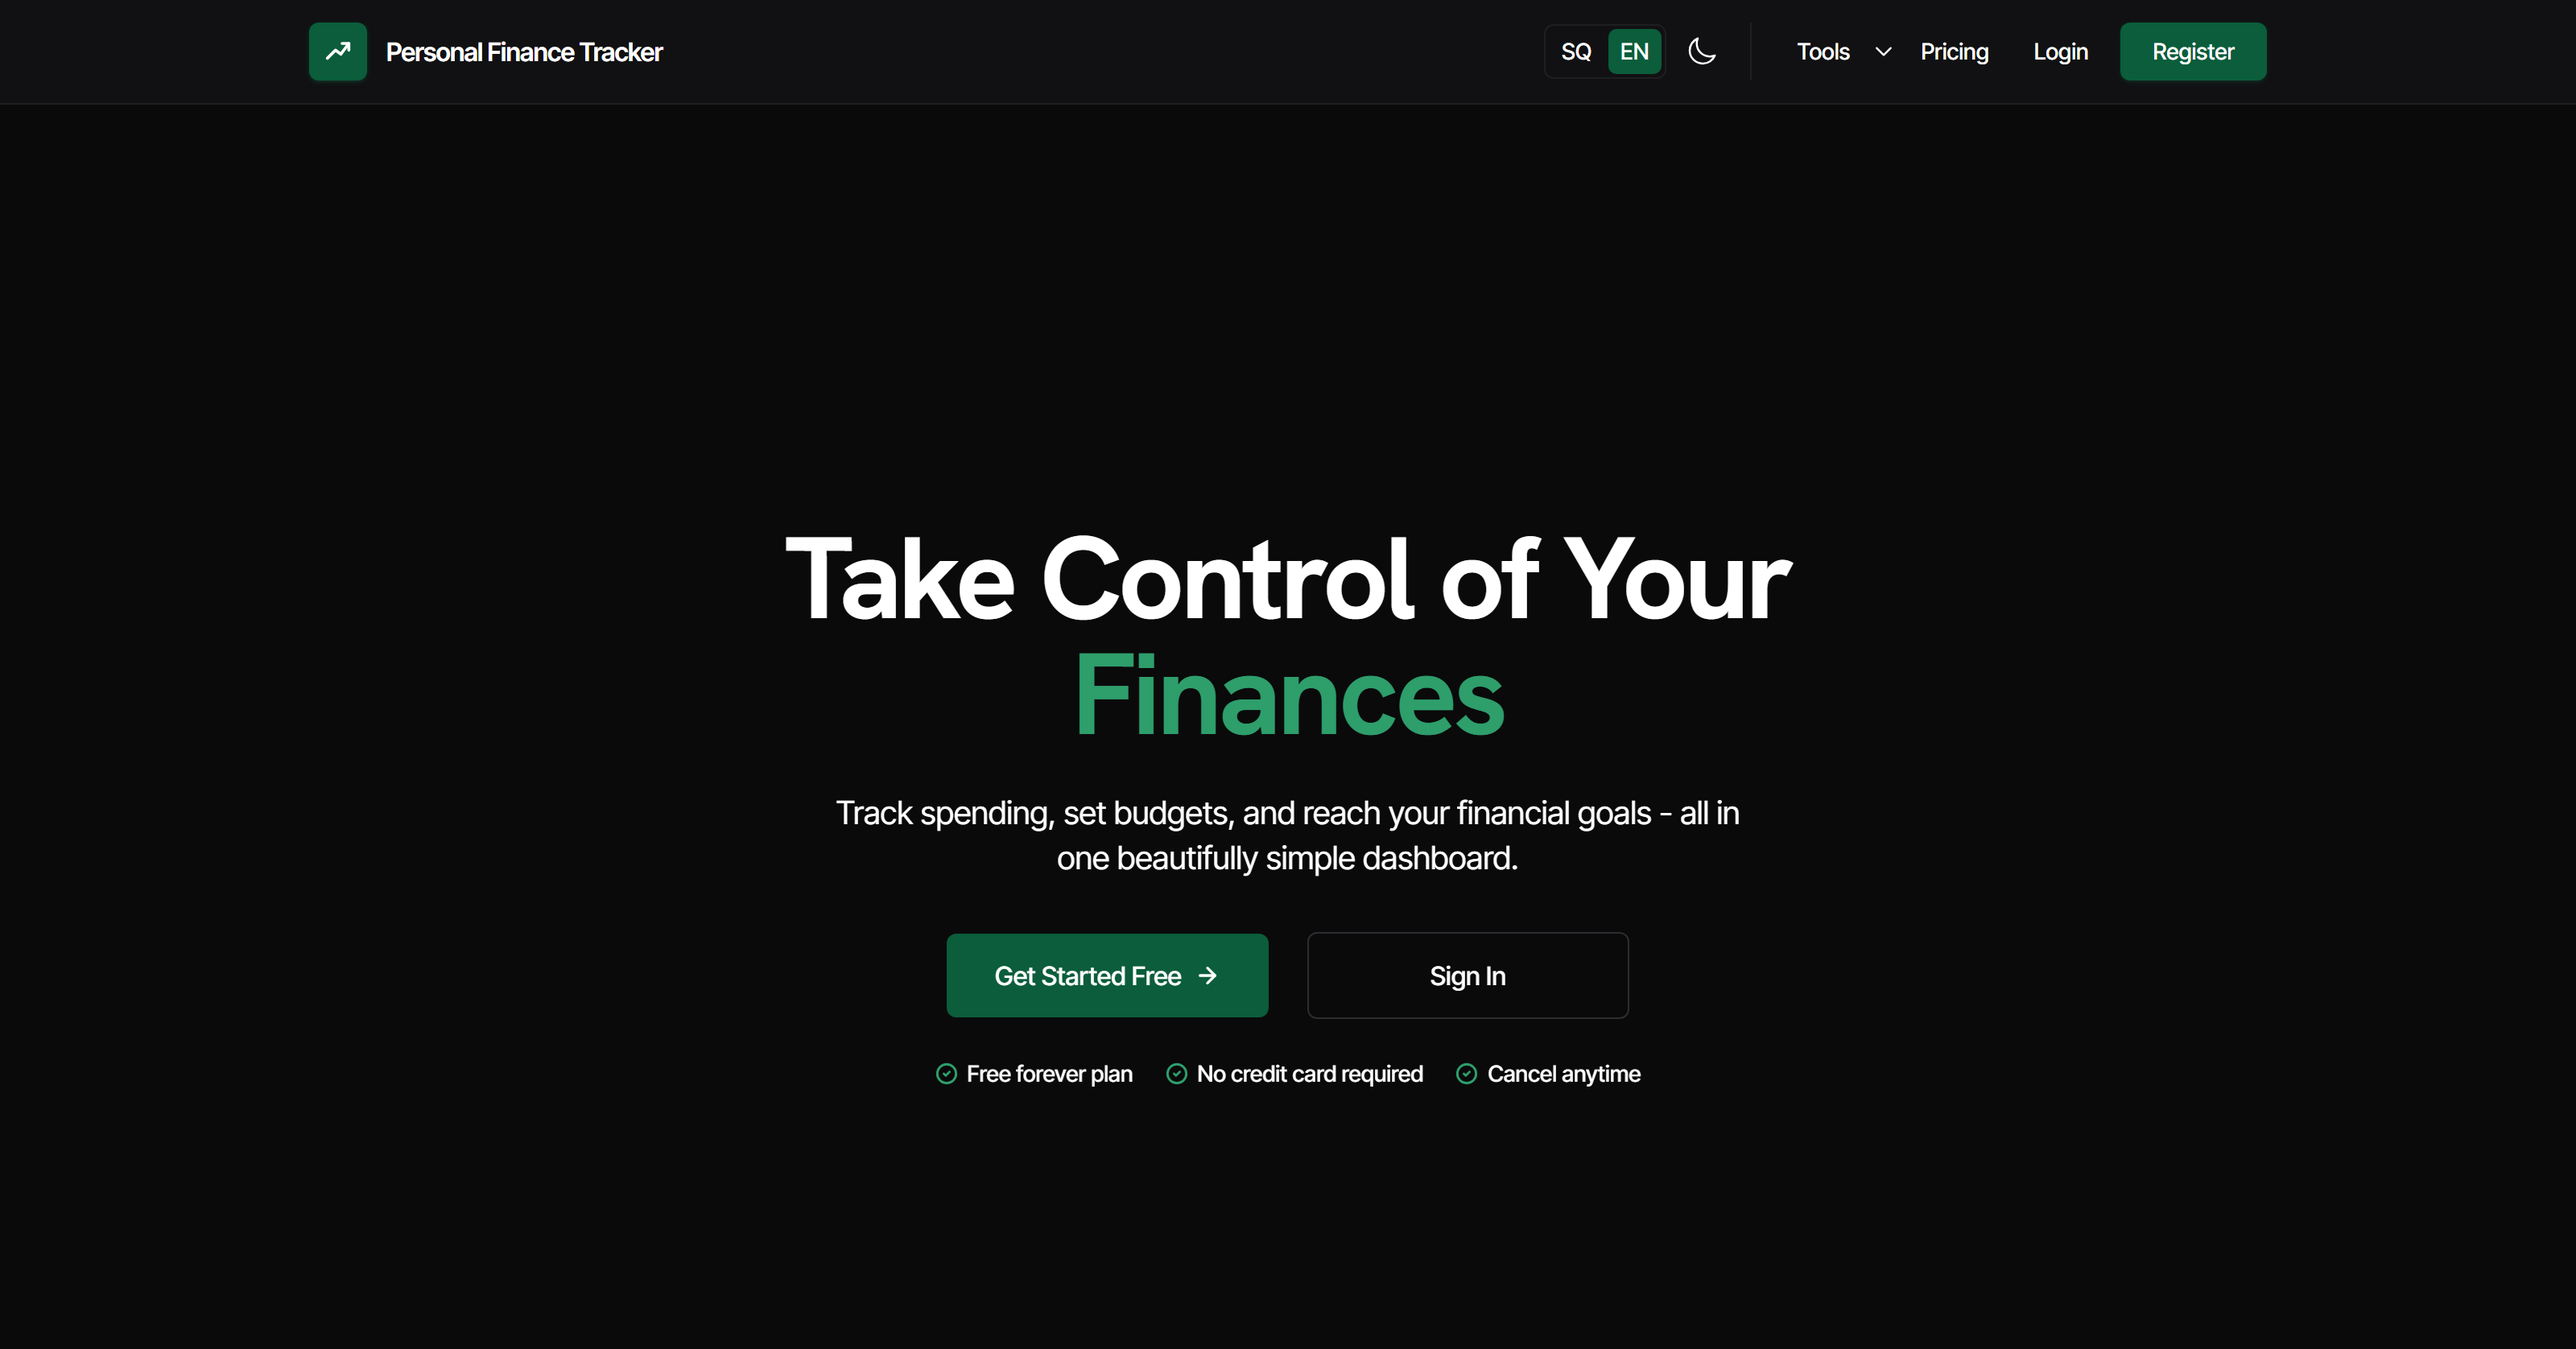
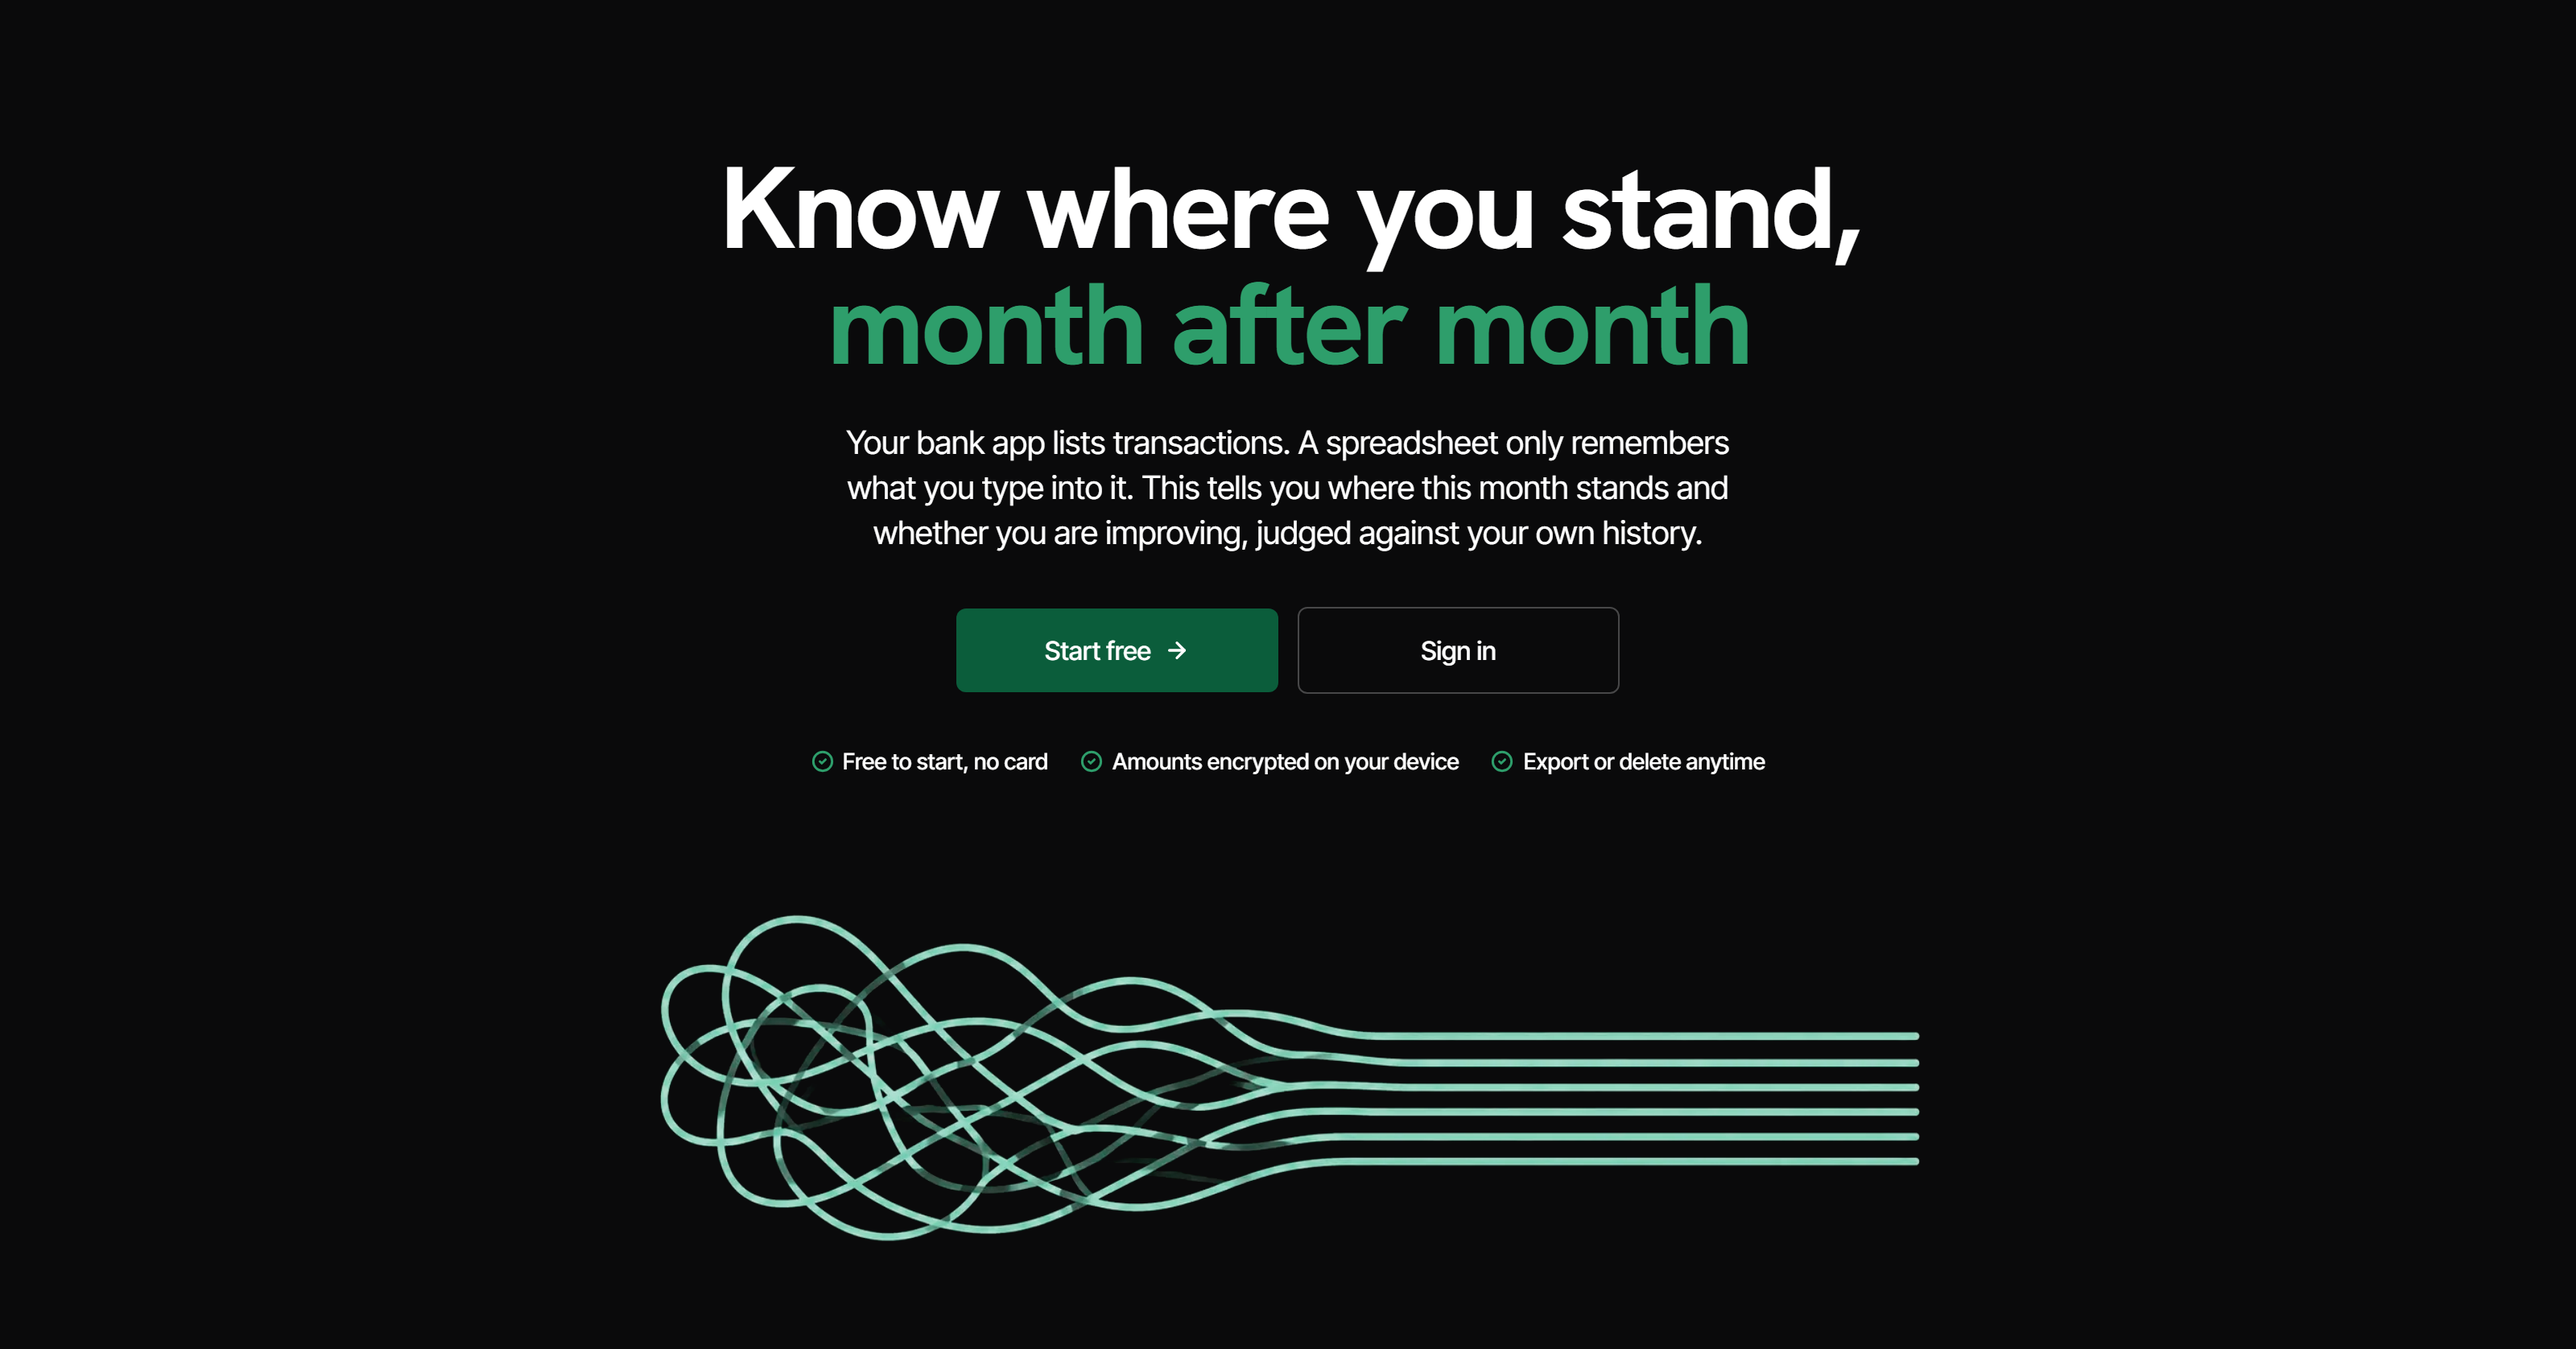
feat: add script to capture and regenerate social cards; include new hero visual asset

diff --git a/src/components/LandingPage.jsx b/src/components/LandingPage.jsx
@@ -188,6 +188,55 @@ function MiniBenchmarks() {
   );
 }
 
+// ── Hero visual ──────────────────────────────────────────────────────────────
+// The metaphor the whole page rests on: tangled threads (a spreadsheet, a bank
+// feed) resolving into ordered parallel lines. Decorative, so alt="" keeps it
+// out of the accessibility tree — the H1 beside it already carries the meaning.
+//
+// The source art is a wide 16:9 with the composition weighted left and generous
+// empty margins, so it is cropped to a shorter band and anchored left rather
+// than letterboxed with dead space.
+function HeroVisual() {
+  // A missing/failed art file renders nothing rather than a broken-image icon:
+  // the hero still reads perfectly without it.
+  const [failed, setFailed] = useState(false);
+  if (failed) return null;
+
+  return (
+    /* The wrapper paints the page colour explicitly: mix-blend-screen
+       composites against the nearest painted backdrop, and without one the
+       image's black field stayed visible as a faint rectangle. */
+    <div
+      className="animate-hero-in mt-12 sm:mt-16 max-w-5xl mx-auto bg-surface-page dark:bg-surface-dark-page"
+      style={{ animationDelay: '440ms' }}
+      aria-hidden="true"
+    >
+      {/* The art is dark green strokes on a baked-in light #FAFAF7 field.
+          In light mode that field matches the page exactly, so the image drops
+          in as-is. In dark mode it would be a bright slab, so the whole image is
+          inverted (light field -> near-black, matching the page) and the hue is
+          rotated back so the strokes stay green rather than becoming magenta.
+          One asset, no second file to keep in sync. */}
+      <img
+        src="/ads/threads-order-from-chaos.webp"
+        alt=""
+        width={1672}
+        height={941}
+        // Above the fold, so it must not be lazy: it competes with the H1 for
+        // LCP and a late load would shift the sections below.
+        loading="eager"
+        fetchPriority="high"
+        decoding="async"
+        onError={() => setFailed(true)}
+        // `screen` on the inverted image drops its near-black field into the
+        // page (black is the identity for screen), removing the faint rectangle
+        // that invert alone leaves behind against #0A0A0B.
+        className="w-full h-[150px] sm:h-[210px] lg:h-[250px] object-cover object-left dark:invert dark:hue-rotate-180 dark:brightness-110 dark:mix-blend-screen"
+      />
+    </div>
+  );
+}
+
 // ── Feature card shell (hero features) ───────────────────────────────────────
 function FeatureCard({ eyebrow, title, desc, preview, className = '', flip = false }) {
   const [ref, visible] = useReveal(0.1);
@@ -351,7 +400,7 @@ export default function LandingPage() {
               {t('landing.hero.subtitle')}
             </p>
 
-            <div className="animate-hero-in flex flex-col sm:flex-row sm:items-center justify-center gap-4 sm:gap-6 mb-6" style={{ animationDelay: '240ms' }}>
+            <div className="animate-hero-in flex flex-col sm:flex-row sm:items-center justify-center gap-3 mb-8" style={{ animationDelay: '240ms' }}>
               <Link
                 to={localizedPath('/register', i18n.language)}
                 className="group w-full sm:w-auto sm:min-w-[200px] inline-flex items-center justify-center gap-2 px-7 py-3.5 bg-brand-600 hover:bg-brand-700 text-white font-medium rounded-md transition-colors text-base"
@@ -359,11 +408,12 @@ export default function LandingPage() {
                 {t('landing.hero.getStarted')}
                 <ArrowRight className="w-4 h-4 transition-transform group-hover:translate-x-1" strokeWidth={2.5} />
               </Link>
-              {/* Sign-in is a text link, not a second button: registering is
-                  the one primary action, so nothing else competes with it. */}
+              {/* Sign-in matches the primary button's geometry so the pair sits
+                  on one optical line, but stays outlined: only the fill marks
+                  the primary action. */}
               <Link
                 to={localizedPath('/login', i18n.language)}
-                className="text-base font-medium text-ink-muted dark:text-white/80 hover:text-ink-primary dark:hover:text-white underline underline-offset-4 decoration-ink-muted/30 dark:decoration-white/30 transition-colors"
+                className="w-full sm:w-auto sm:min-w-[200px] inline-flex items-center justify-center px-7 py-3.5 text-base font-medium rounded-md border border-surface-outline dark:border-white/25 text-ink-primary dark:text-white hover:bg-surface-subtle dark:hover:bg-white/5 hover:border-ink-muted/50 dark:hover:border-white/40 transition-colors"
               >
                 {t('landing.hero.signIn')}
               </Link>
@@ -378,6 +428,9 @@ export default function LandingPage() {
               ))}
             </div>
           </div>
+
+          {/* Visual restatement of the promise: chaos resolving into order. */}
+          <HeroVisual />
         </div>
       </section>
 

diff --git a/sq.html b/sq.html
@@ -146,7 +146,7 @@
          rendered hero exactly: same H1, same subtitle, same primary action. -->
     <noscript>
       <h1>Dini ku jeni, muaj pas muaji</h1>
-      <p>Aplikacioni i bankës ju rendit transaksionet. Tabela mban mend vetëm atë që shkruani vetë në të. Ky ju tregon ku qëndron ky muaj dhe nëse po përmirësoheni, krahasuar me historikun tuaj.</p>
+      <p>Aplikacioni i bankës ju rendit transaksionet. Tabela mban mend vetëm atë që shkruani vetë në të. Ky aplikacion ju tregon ku qëndron ky muaj dhe nëse po përmirësoheni, krahasuar me historikun tuaj.</p>
       <ul>
         <li>Transaksionet e përsëritura regjistrohen automatikisht, çdo ditë, javë, muaj ose vit, me mundësi pezullimi dhe rifillimi</li>
         <li>Qëllime kursimi që i ushqeni me kontribute dhe u ndiqni ecurinë</li>

diff --git a/src/components/Dashboard/SummaryCards.jsx b/src/components/Dashboard/SummaryCards.jsx
@@ -19,7 +19,8 @@ const ScalesIcon = (
 
 export default function SummaryCards({ totalIncome, totalExpense, net, loading }) {
   const { t } = useTranslation();
-  // Single currency, so totals are already in the user's currency.
+  // Single currency: the caption below names which one, so the figures are
+  // never ambiguous.
   const { format: formatCurrency, currency } = useDisplayCurrency();
 
   const cards = [
